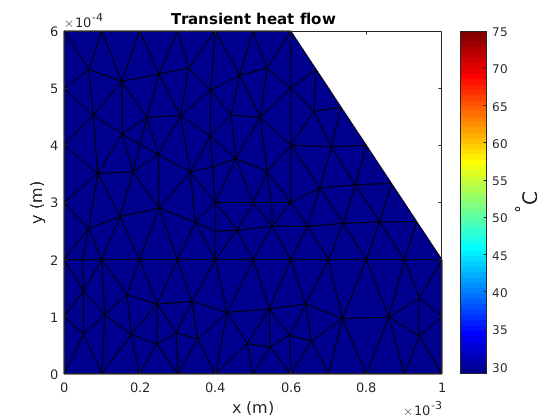
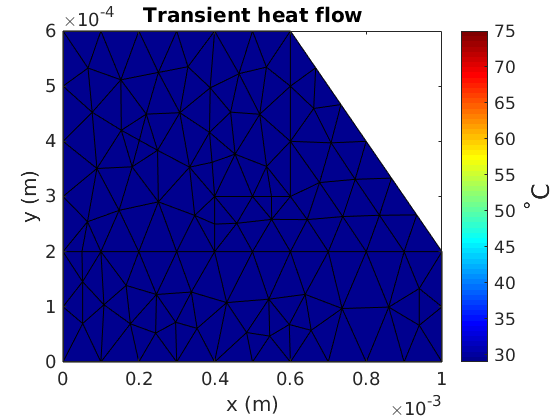
Changed plot font size

diff --git a/transient_heat_flow.m b/transient_heat_flow.m
@@ -19,11 +19,12 @@ for i = 2:6
     ed = extract(edof,a_t(:,timenbr)-274.15);
     timenbr = timenbr+20;
     h = fill(ex',ey',ed');
-    title({'Transient heat flow'});
+    title('Transient heat flow','FontSize', 20);
     c = colorbar;
-    xlabel('x (m)','FontSize',12);
-    ylabel('y (m)','FontSize',12);
-    ylabel(c,'^{\circ}C','FontSize',15);
+    xlabel('x (m)','FontSize',18);
+    ylabel('y (m)','FontSize',18);
+    ylabel(c,'^{\circ}C','FontSize',18);
+    set(gca,'fontsize',14)
     caxis([29, 75]);
     colormap(jet);
 %     set(h,'EdgeColor','none')
@@ -31,10 +32,11 @@ end
 
 figure(7)
 h = fill(ex',ey',ed');
-title({'Transient heat flow'});
-xlabel('x (m)','FontSize',12);
-ylabel('y (m)','FontSize',12);
-ylabel(c,'^{\circ}C','FontSize',15);
+title('Transient heat flow','FontSize', 20);
+xlabel('x (m)','FontSize',18);
+ylabel('y (m)','FontSize',18);
+ylabel(c,'^{\circ}C','FontSize',18);
+set(gca,'fontsize',14)
 colorbar;
 colormap(jet);
 % set(h,'EdgeColor','none')

diff --git a/part2.m b/part2.m
@@ -97,11 +97,12 @@ end
 ed = extract(edof,Seff_nod);
 figure(8);
 h = fill(ex',ey',ed');
-title({'Von Mises stress field'});
+title('Von Mises stress field','FontSize', 26);
 c = colorbar;
-xlabel('x (m)','FontSize',12);
-ylabel('y (m)','FontSize',12);
-ylabel(c,'Pa','FontSize',15);
+xlabel('x (m)','FontSize',18);
+ylabel('y (m)','FontSize',18);
+ylabel(c,'Pa','FontSize',18);
+set(gca,'fontsize',14)
 % set(h,'EdgeColor','none')
 colormap(jet);
  
@@ -117,5 +118,7 @@ eldraw2(ex,ey,[1,2,1])
  
  [ex,ey]=coordxtr(edof,coord,(1:ndof)',3); 
 eldraw2(ex,ey,[1,4,2])  
-xlabel('x (m)','FontSize',12);
-ylabel('y (m)','FontSize',12);
+title('Displacement field','FontSize', 20)
+xlabel('x (m)','FontSize',18);
+ylabel('y (m)','FontSize',18);
+set(gca,'fontsize',14)

diff --git a/heat_flow.m b/heat_flow.m
@@ -60,11 +60,12 @@ a_stationary = solve(K,f);
  ed = extract(edof,a_stationary-273.15);
   figure(1)
   h = fill(ex',ey',ed');
-  title({'Stationary heat flow'});
+  title('Stationary heat flow','FontSize', 20);
   c = colorbar;
-  xlabel('x (m)','FontSize',12);
-  ylabel('y (m)','FontSize',12);
-  ylabel(c,'^{\circ}C','FontSize',15);
+  xlabel('x (m)','FontSize',18);
+  ylabel('y (m)','FontSize',18);
+  ylabel(c,'^{\circ}C','FontSize',18);
+  set(gca,'fontsize',14)
 %   set(h,'EdgeColor','none')
   colormap(jet);
   hold off;
